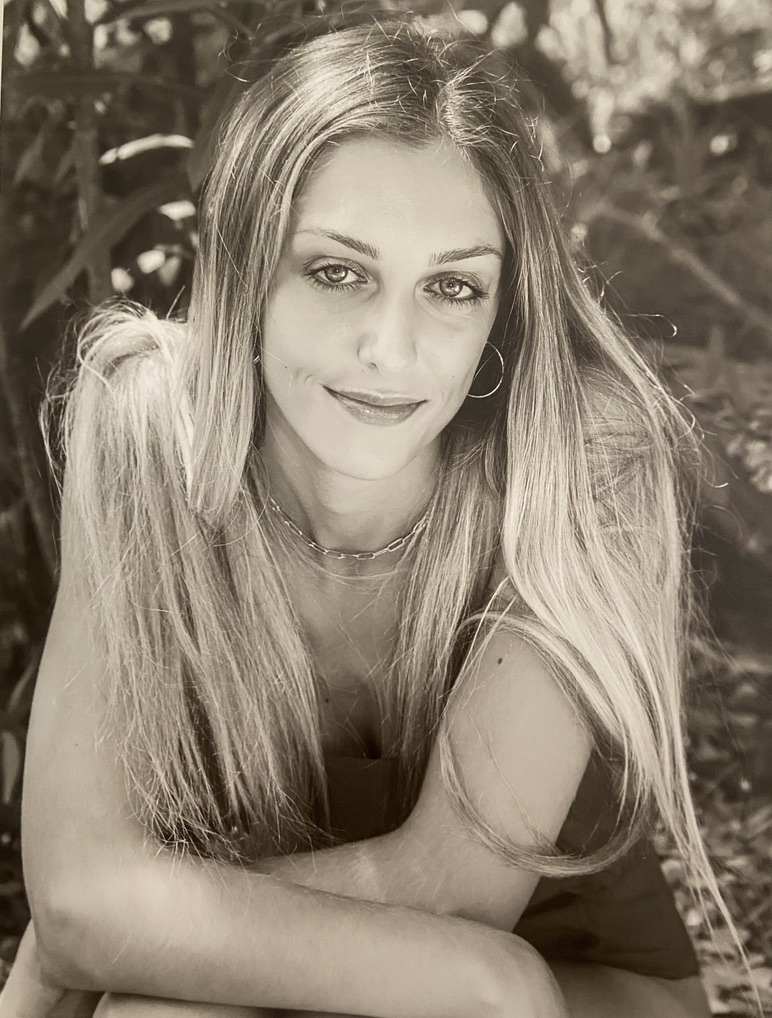
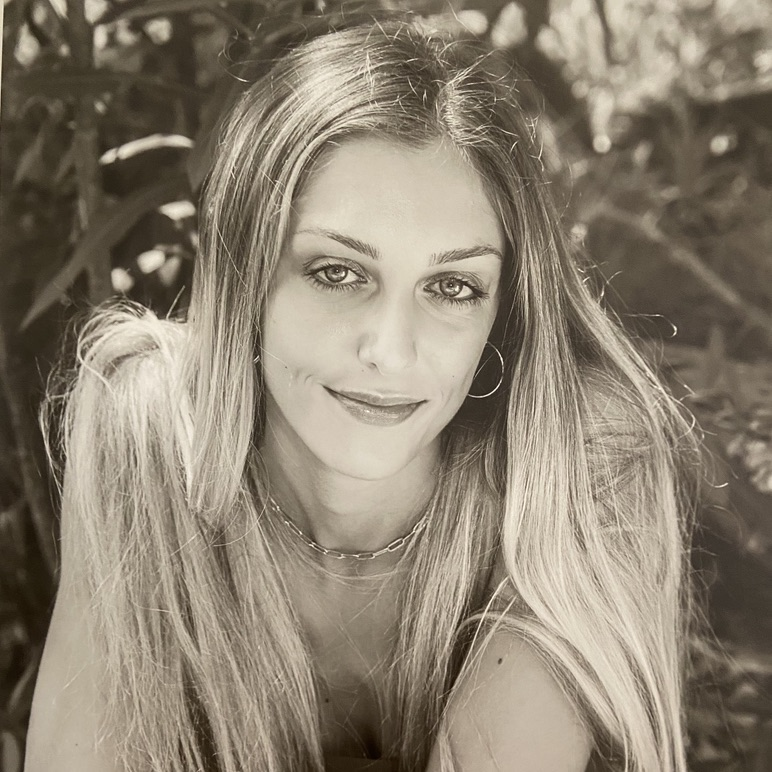
:lipstick: ajout début contenu+style section about

diff --git a/index.html b/index.html
@@ -27,8 +27,8 @@
       <nav>
         <ul>
           <li><a href="#">HOME</a></li>
-          <li><a href="#">PROJETS</a></li>
-          <li><a href="#">ABOUT</a></li>
+          <li><a href="#projet">PROJETS</a></li>
+          <li><a href="#about">ABOUT</a></li>
           <li><a href="#contact">CONTACT</a></li>
         </ul>
       </nav>
@@ -39,7 +39,7 @@
       <section id="banner">
         <div id="photo_banner"></div>
         <div id="text_banner">
-          <div id="text">Ambre Arena<br />Dev web<span>|</span>Junior</div>
+          <div id="text">Ambre Arena<br />Dev web<span> / </span>Junior</div>
         </div>
       </section>
 
@@ -48,7 +48,7 @@
         <div class="grid">
           <div class="projet1">
             <article class="cardImg">
-              <img src="img/gradient.jpg" alt="" />
+              <a href="#"><img src="img/gradient.jpg" alt="" /></a>
             </article>
             <div class="textCard">
               <div class="desc">bla</div>
@@ -61,7 +61,7 @@
           </div>
           <div class="projet2">
             <article class="cardImg">
-              <img src="img/gradient.jpg" alt="" />
+              <a href="#"><img src="img/gradient.jpg" alt="" /></a>
             </article>
             <div class="textCard">
               <div class="desc">bla</div>
@@ -74,7 +74,7 @@
           </div>
           <div class="projet3">
             <article class="cardImg">
-              <img src="img/gradient.jpg" alt="" />
+              <a href="#"><img src="img/gradient.jpg" alt="" /></a>
             </article>
             <div class="textCard">
               <div class="desc">bla</div>
@@ -89,7 +89,37 @@
       </section>
 
       <!-- ABOUT -->
-      <section id="about"></section>
+      <section id="about">
+        <div class="aboutDesc">
+          <h2>HELLO IT'S ME <span>AMBRE</span>!</h2>
+          <p>
+            Lorem ipsum dolor sit amet consectetur adipisicing elit. Iusto
+            officia beatae odio quae pariatur quibusdam ab accusamus facilis
+            aliquam, laboriosam, itaque est, dicta at maxime numquam libero ad
+            asperiores. Beatae.
+          </p>
+          <p>
+            Veritatis porro quibusdam eum dicta quam consequuntur amet possimus
+            similique dolores illo eveniet, minima aliquam vero s?
+          </p>
+          <p>
+            Accusamus blanditiis sequi quia maiores porro commodi nisi ea magni,
+            quasi nemo ipsum quam iure reprehenderit aperiam quae, illum
+            quisquam aspernatur vitae eius deserunt atque ex. Earum amet ipsa
+            delectus.
+          </p>
+          <p>Veritatis, perspiciatis? Vel, culpa. Quibusdam eveniet .</p>
+          <p>
+            Praesentium accusamus ab nesciunt excepturi placeat. Repellendus
+            culpa sint fuga dolorum facilis, ullam nam eveniet eum laudantium
+            doloribus aut odio sit quas dicta amet quisquam nemo provident
+            numquam eaque aspernatur.
+          </p>
+        </div>
+        <div class="aboutImg">
+          <img src="img/photo_id_1.jpeg" alt="" />
+        </div>
+      </section>
 
       <!-- CONTACT -->
       <section id="contact">

diff --git a/style.css b/style.css
@@ -104,11 +104,17 @@ nav a:hover {
 
 #text_banner {
   font-size: 50px;
-  font-weight: 300;
+  line-height: 80px;
+  font-weight: 600;
+  letter-spacing: 5px;
   text-transform: uppercase;
   position: absolute;
   left: -100%;
   animation: animText 2s forwards 2.5s;
+}
+
+#text_banner span {
+  color: #737373;
 }
 
 /*--------------------------------------------------------------*/
@@ -134,6 +140,7 @@ nav a:hover {
   margin-top: 25%;
   box-shadow: 0 8px 32px 0 rgba(255, 255, 255, 0.37);
   backdrop-filter: blur(7px);
+  background-color: rgba(255, 255, 255, 0.5);
   -webkit-backdrop-filter: blur(7px);
   border-radius: 10px;
   display: flex;
@@ -147,6 +154,7 @@ nav a:hover {
   margin-top: 25%;
   box-shadow: 0 8px 32px 0 rgba(255, 255, 255, 0.37);
   backdrop-filter: blur(7px);
+  background-color: rgba(255, 255, 255, 0.5);
   -webkit-backdrop-filter: blur(7px);
   border-radius: 10px;
   display: flex;
@@ -158,6 +166,7 @@ nav a:hover {
   height: 60vh;
   margin-top: 25%;
   box-shadow: 0 8px 32px 0 rgba(255, 255, 255, 0.37);
+  background-color: rgba(255, 255, 255, 0.5);
   backdrop-filter: blur(7px);
   -webkit-backdrop-filter: blur(7px);
   border-radius: 10px;
@@ -176,6 +185,8 @@ nav a:hover {
   max-width: 100%;
   height: auto;
   border-radius: 10px 10px 0 0;
+  transition: 0.3s ease-in-out;
+  transition: 0.3s ease-in-out;
 }
 
 .textCard {
@@ -203,13 +214,62 @@ nav a:hover {
   margin: 0;
 }
 
+.link {
+  height: 60px;
+  width: 200px;
+  align-self: center;
+  font-size: 1rem;
+  line-height: 1.5rem;
+  color: #737373;
+  margin-bottom: 2rem;
+  background-color: #fff;
+  border-radius: 5px;
+}
+.link a {
+  margin: 2.2rem;
+  text-decoration: none;
+  text-transform: uppercase;
+  color: #303030;
+  font-weight: 600;
+}
+/* HOVER CARDS */
+.cardImg img:hover {
+  transform: scale(1.3);
+  transform: scale(1.3);
+  backdrop-filter: blur(8px);
+}
+
 /*--------------------------------------------------------------*/
 
 /*  SECTION ABOUT */
 #about {
   height: 100vh;
   width: 100%;
-  background-color: rgb(101, 113, 122);
+  background-color: rgb(212, 211, 198);
+  display: flex;
+  flex-direction: row;
+  justify-content: center;
+}
+.aboutDesc {
+  padding: 50px;
+  width: 50%;
+  color: #303030;
+  align-content: center;
+}
+.aboutDesc span {
+  color: #737373;
+}
+
+.aboutDesc p {
+  margin: 20px;
+}
+
+.aboutImg {
+  margin: 50px;
+}
+.aboutImg img {
+  height: 60vh;
+  border-radius: 50%;
 }
 /*--------------------------------------------------------------*/
 
